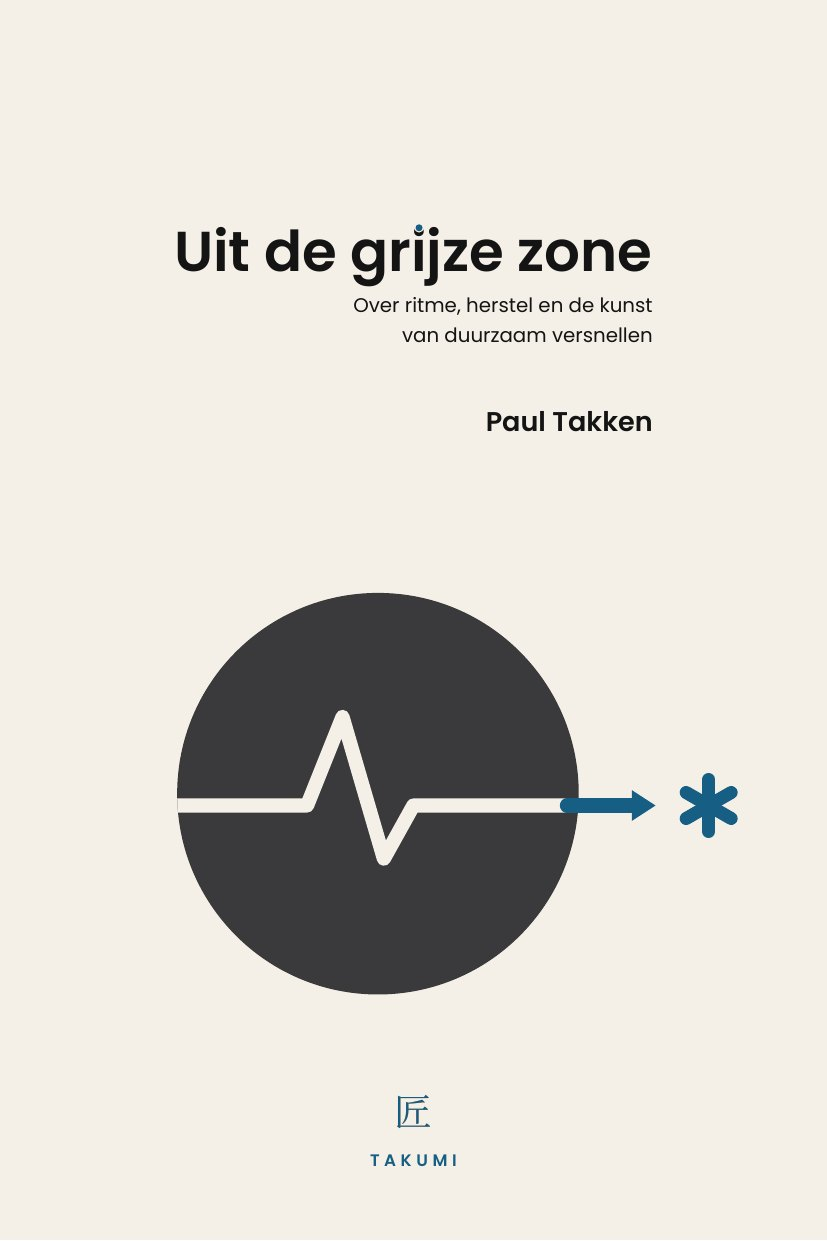
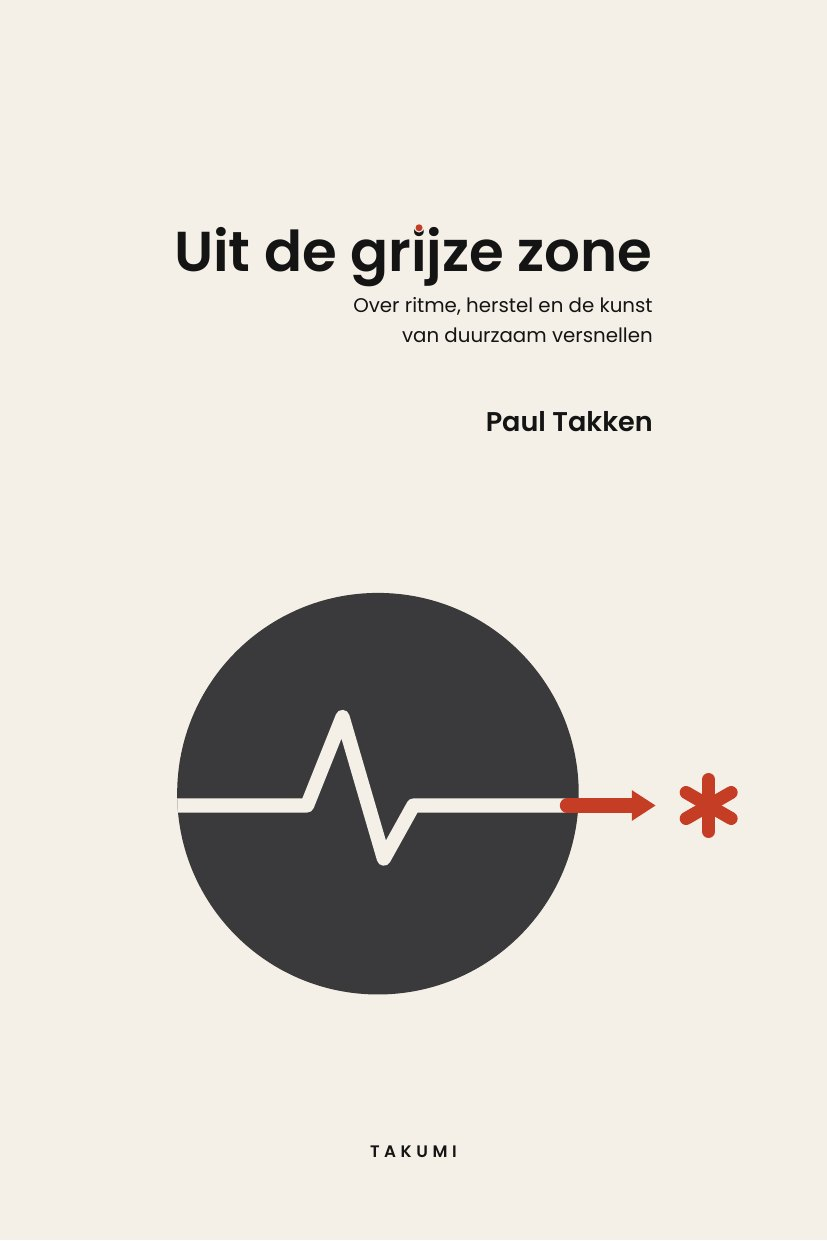
Huisstijl terug naar rood: werkboek, cover en sectieknoppen in de Natuurlijk Agile-familie

Changed region(s): [[0.8162, 0.6124, 0.9069, 0.6737], [0.6651, 0.643, 0.786, 0.6737], [0.4534, 0.888, 0.5441, 0.9492]]

diff --git a/landing.html b/landing.html
@@ -670,10 +670,10 @@ footer { padding: 40px 64px; display: flex; align-items: center; justify-content
     .gz-cover{width:100%;border-radius:6px;box-shadow:0 18px 50px rgba(28,24,21,.18)}
     .gz-btns{display:flex;gap:12px;flex-wrap:wrap;margin-top:26px}
     .gz-btn{display:inline-block;text-decoration:none;border-radius:999px;padding:13px 26px;font-size:14px;font-weight:600;letter-spacing:.02em;transition:all .2s}
-    .gz-btn.p{background:#165E83;color:#fff}
-    .gz-btn.p:hover{background:#1d6f99}
-    .gz-btn.s{border:1px solid #165E83;color:#165E83}
-    .gz-btn.s:hover{background:rgba(22,94,131,.08)}
+    .gz-btn.p{background:#C4532A;color:#fff}
+    .gz-btn.p:hover{background:#a8441f}
+    .gz-btn.s{border:1px solid #C4532A;color:#C4532A}
+    .gz-btn.s:hover{background:rgba(196,83,42,.08)}
     @media(max-width:860px){.gz-inner{grid-template-columns:1fr;gap:36px}.gz-cover{max-width:240px;margin:0 auto;display:block}}
   </style>
   <div class="gz-inner">
